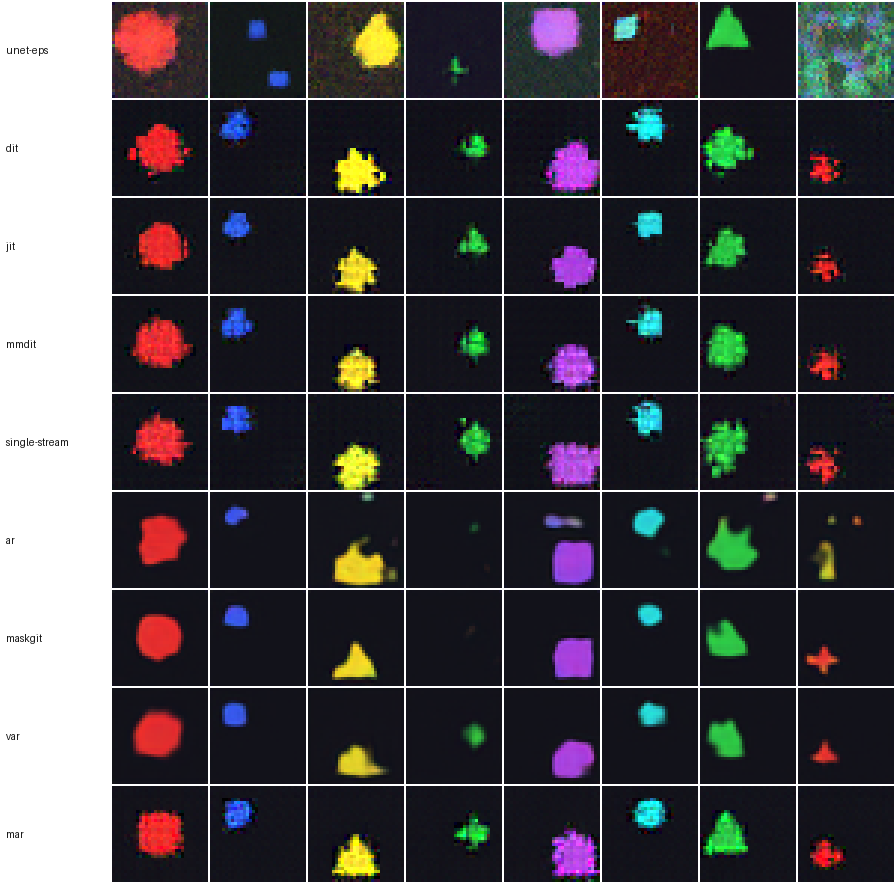
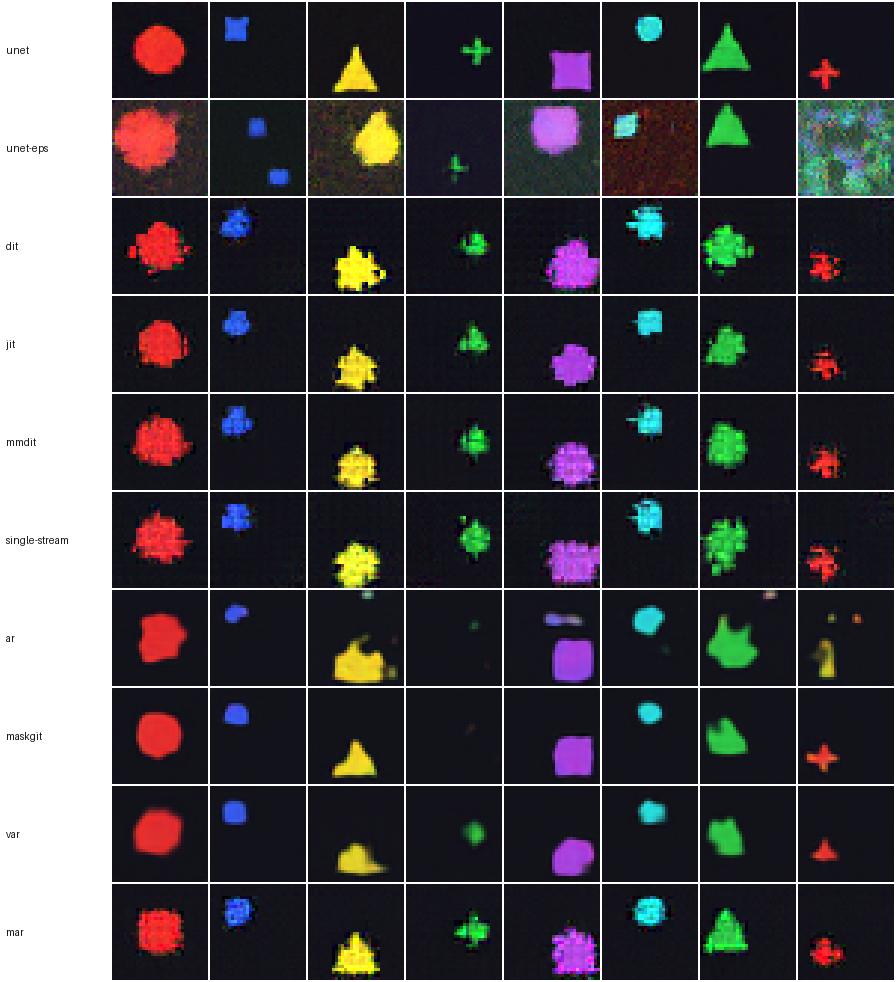
Add v-prediction U-Net results (100% on the shapes benchmark) and refresh report

diff --git a/README.md b/README.md
@@ -23,6 +23,7 @@ draw 128 random prompts. The oracle scores each generated image (see below):
 
 | model | family | params | color | shape | position | size | all 4 correct | train time (CPU) | sampling / image |
 |---|---|---|---|---|---|---|---|---|---|
+| `unet` | diffusion (DDPM) | 1.17M | 100% | 100% | 100% | 100% | **100%** | 77 min | 781 ms |
 | `unet-eps` | diffusion (DDPM) | 1.17M | 62% | 38% | 11% | 60% | **3%** | 72 min | 2659 ms |
 | `dit` | flow matching | 0.95M | 100% | 32% | 100% | 90% | **25%** | 37 min | 113 ms |
 | `jit` | flow matching (x-prediction) | 0.95M | 100% | 50% | 100% | 100% | **50%** | 23 min | 111 ms |
@@ -42,25 +43,29 @@ Per-model 4-sample grids are in [`results/`](results/); tokenizer reconstruction
 
 **What the numbers say** (at this tiny scale and budget):
 
-* **Every architecture learns text conditioning.** All transformer models get colour and position near 100%;
-  random guessing would give 17% and 11%.
-* **Token models win on shape at equal steps.** The VQ decoder handles the fine pixel detail, so the transformer
-  only has to pick 64 codes. MaskGIT (77%), MAR (70%) and VAR (65%) lead. VAR also samples fastest:
-  six parallel steps, one per scale.
-* **x-prediction doubles DiT's score.** JiT and DiT use the same network and differ only in what it predicts.
-  Predicting the clean image instead of the velocity takes all-correct from 25% to 50%,
-  which agrees with the claim of *Back to Basics* (Li & He, 2025) for pixel-space transformers.
-* **Flow transformers get layout right but blur shapes.** At 2,000 steps the pixel-space DiT, MMDiT and single-stream
+* **Every architecture learns text conditioning.** All of them get colour and position well above chance
+  (17% and 11% for random guessing); 9 of 10 get both at 80-100%.
+* **The convolutional U-Net with v-prediction is the clear winner at this scale: 100%.** Convolutions have
+  exactly the right inductive bias for small, local, pixel-exact shapes, and it is the only model whose samples
+  draw even the small crosses crisply. Transformers trade that bias for scalability, which pays off only at
+  scales far beyond this toy.
+* **The prediction target is decisive for diffusion.** `unet` and `unet-eps` are the *same network*, trained the
+  same way; only the regression target differs. ε-prediction (the original DDPM / SD 1.x objective) scores 3%:
+  near pure noise, recovering x₀ from ε divides by √ᾱ ≈ 0, so small errors explode exactly where the global layout
+  is decided, and position accuracy falls to chance (11%). Lowering guidance makes it worse (0-3%), which rules out
+  over-guidance. v-prediction (SD 2.x) stays well-conditioned there and scores 100%.
+* **The same lesson holds for transformers.** JiT and DiT are also one network with two targets: predicting the
+  clean image instead of the velocity doubles all-correct from 25% to 50%, in line with *Back to Basics*
+  (Li & He, 2025) for pixel-space transformers.
+* **Token models are the strongest transformers at equal steps.** The VQ decoder handles fine pixel detail, so the
+  transformer only picks 64 codes. MaskGIT (77%), MAR (70%) and VAR (65%) lead. VAR samples fastest: six parallel
+  steps, one per scale.
+* **Pixel-space flow transformers get layout right but blur shapes.** At 2,000 steps DiT, MMDiT and single-stream
   models produce blobby shapes; shape is the attribute they have learned least.
-* **ε-prediction fails at high noise.** `unet-eps` (the original DDPM / SD 1.x objective) denoises *better* than DiT
-  at low and medium noise, but its x₀ estimate degrades sharply near pure noise, where ε-prediction must divide by
-  √ᾱ ≈ 0. That is when the global layout is decided, and position accuracy drops to chance (11%). Lowering the
-  guidance scale makes it worse (0-3%), which rules out over-guidance. The default `unet` therefore uses
-  **v-prediction** (SD 2.x).
 
 > Caveats: train and sampling times are wall-clock on a CPU shared with other heavy jobs, so compare
-> them within the table only. Scores at n=128 carry about ±4% standard error, and none of these models
-> has converged. Rankings at real scale (billions of parameters, VAE latents, long training) differ:
+> them within the table only. Scores at n=128 carry about ±4% standard error, and most of these models
+> have not converged. Rankings at real scale (billions of parameters, VAE latents, long training) differ:
 > MMDiT and single-stream DiTs power most current production systems.
 
 

diff --git a/results/results.md b/results/results.md
@@ -1,5 +1,6 @@
 | model | family | params | color | shape | position | size | all 4 correct | train time (CPU) | sampling / image |
 |---|---|---|---|---|---|---|---|---|---|
+| `unet` | diffusion (DDPM) | 1.17M | 100% | 100% | 100% | 100% | **100%** | 77 min | 781 ms |
 | `unet-eps` | diffusion (DDPM) | 1.17M | 62% | 38% | 11% | 60% | **3%** | 72 min | 2659 ms |
 | `dit` | flow matching | 0.95M | 100% | 32% | 100% | 90% | **25%** | 37 min | 113 ms |
 | `jit` | flow matching (x-prediction) | 0.95M | 100% | 50% | 100% | 100% | **50%** | 23 min | 111 ms |
